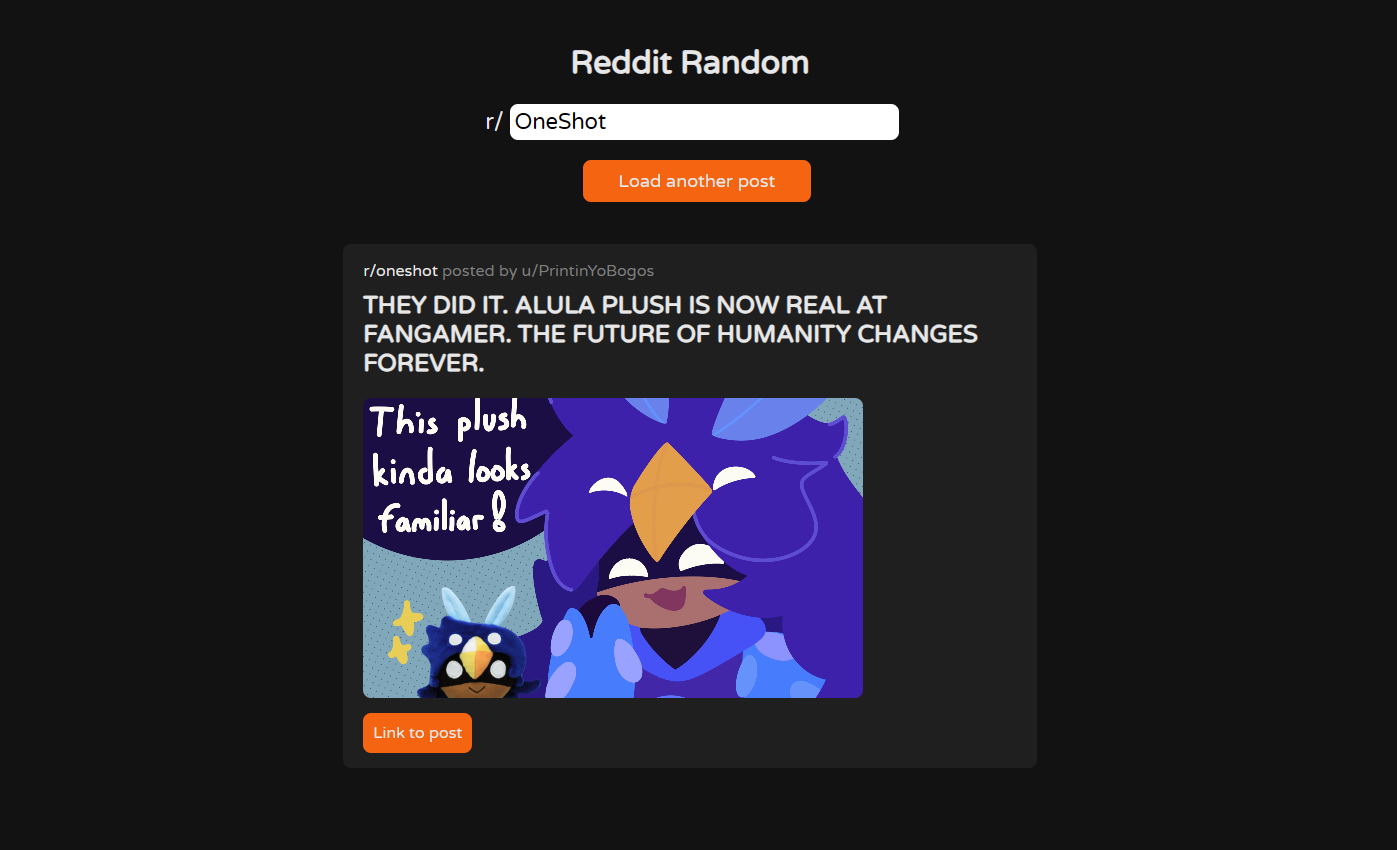
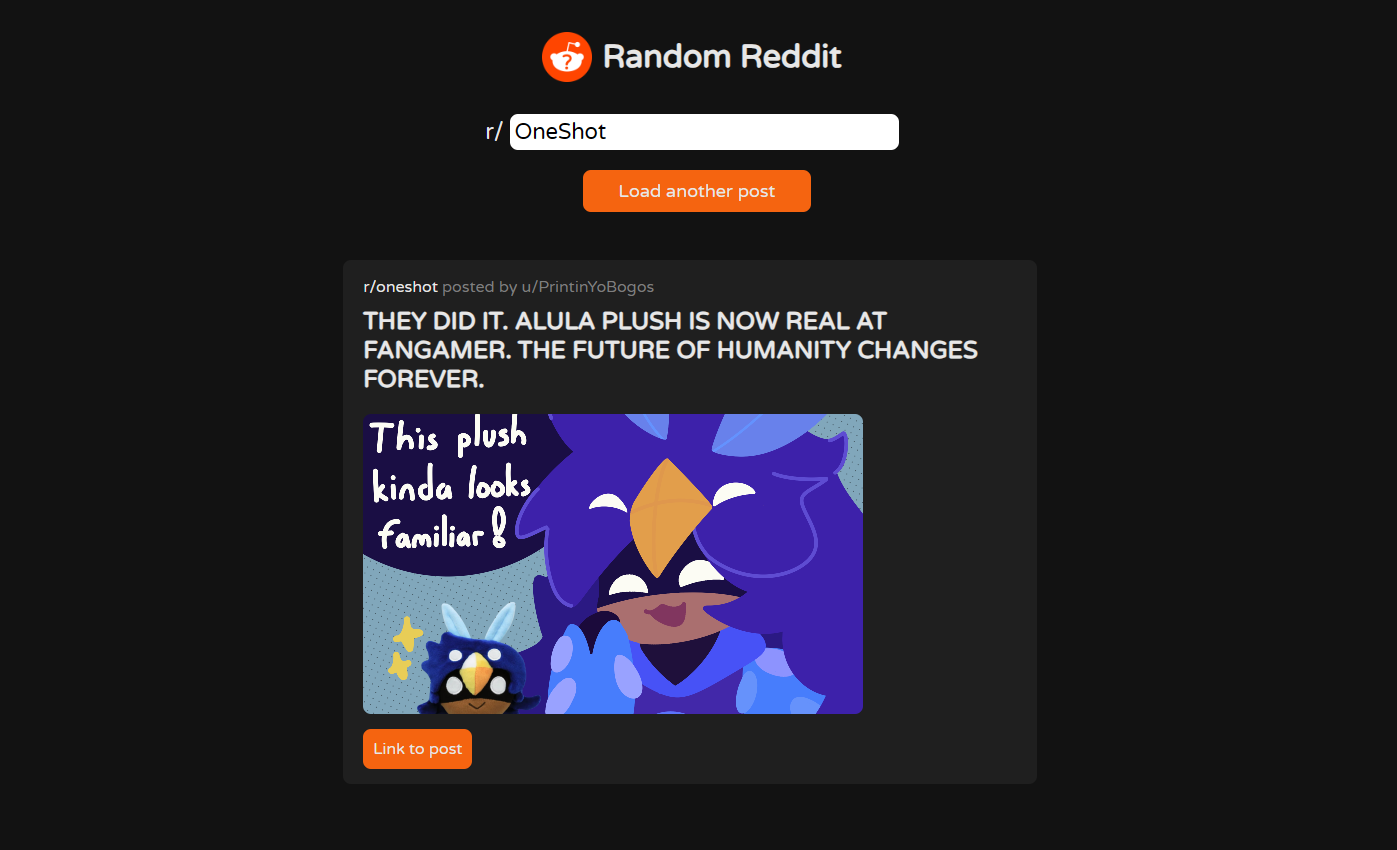
Edit werbsite

Changed region(s): [[0.2462, 0.3059, 0.7079, 0.9176], [0.3386, 0.1224, 0.6464, 0.2753], [0.3694, 0.0306, 0.6156, 0.0918]]

diff --git a/assets/js/script.js b/assets/js/script.js
@@ -52,25 +52,6 @@ button.addEventListener('click', async () => {
     }
 });
 
-const popup = document.getElementById('imagePopup');
-const popupImage = document.getElementById('popupImage');
-const closePopup = document.getElementById('closePopup');
-
-function openPopup(imageUrl) {
-    popup.style.display = 'block';
-    popupImage.src = imageUrl;
-}
-
-closePopup.addEventListener('click', () => {
-    popup.style.display = 'none';
-});
-
-window.addEventListener('click', (event) => {
-    if (event.target === popup) {
-        popup.style.display = 'none';
-    }
-});
-
 input.addEventListener('keydown', async (event) => {
     if (event.key === "Enter") {
         event.preventDefault();
@@ -121,5 +102,24 @@ input.addEventListener('keydown', async (event) => {
         } catch (error) {
             console.error('Error while parsing JSON datas:', error);
         }
+    }
+});
+
+const popup = document.getElementById('imagePopup');
+const popupImage = document.getElementById('popupImage');
+const closePopup = document.getElementById('closePopup');
+
+function openPopup(imageUrl) {
+    popup.style.display = 'block';
+    popupImage.src = imageUrl;
+}
+
+closePopup.addEventListener('click', () => {
+    popup.style.display = 'none';
+});
+
+window.addEventListener('click', (event) => {
+    if (event.target === popup) {
+        popup.style.display = 'none';
     }
 });

diff --git a/index.html b/index.html
@@ -8,12 +8,15 @@
     <meta content="http://str4ky.github.io/randomReddit" property="og:url">
     <meta content="http://str4ky.github.io/randomReddit/assets/img/favicon.png" property="og:image">
     <meta content="#FF4500" data-react-helmet="true" name="theme-color">
-    <title>Reddit random</title>
+    <title>Random Reddit</title>
     <link rel="icon" type="image/png" href="assets/img/favicon.png" />
     <link rel="stylesheet" href="assets/css/style.css">
 </head>
 <body>
-    <h1>Reddit Random</h1>
+    <div id="header">
+        <img src="assets/img/favicon.png" alt="logo" id="logo" width="50">
+        <h1>Random Reddit</h1>
+    </div>
     <div id="search">
         <span>r/</span><input type="text" id="input" placeholder="Subreddit name"><br>
         <button id="button">Load post</button>

diff --git a/assets/css/style.css b/assets/css/style.css
@@ -14,6 +14,19 @@ html {
 
 h1 {
     text-align: center;
+    margin: 0;
+}
+
+#header {
+    display: flex;
+    align-items: center;
+    justify-content: center;
+    padding-top: 24px;
+}
+
+#logo {
+    vertical-align: middle;
+    margin-right: 10px;
 }
 
 input[type="text"] {
@@ -50,6 +63,7 @@ button:hover {
 
 #search {
     text-align: center;
+    padding-top: 32px;
 }
 
 #post {
